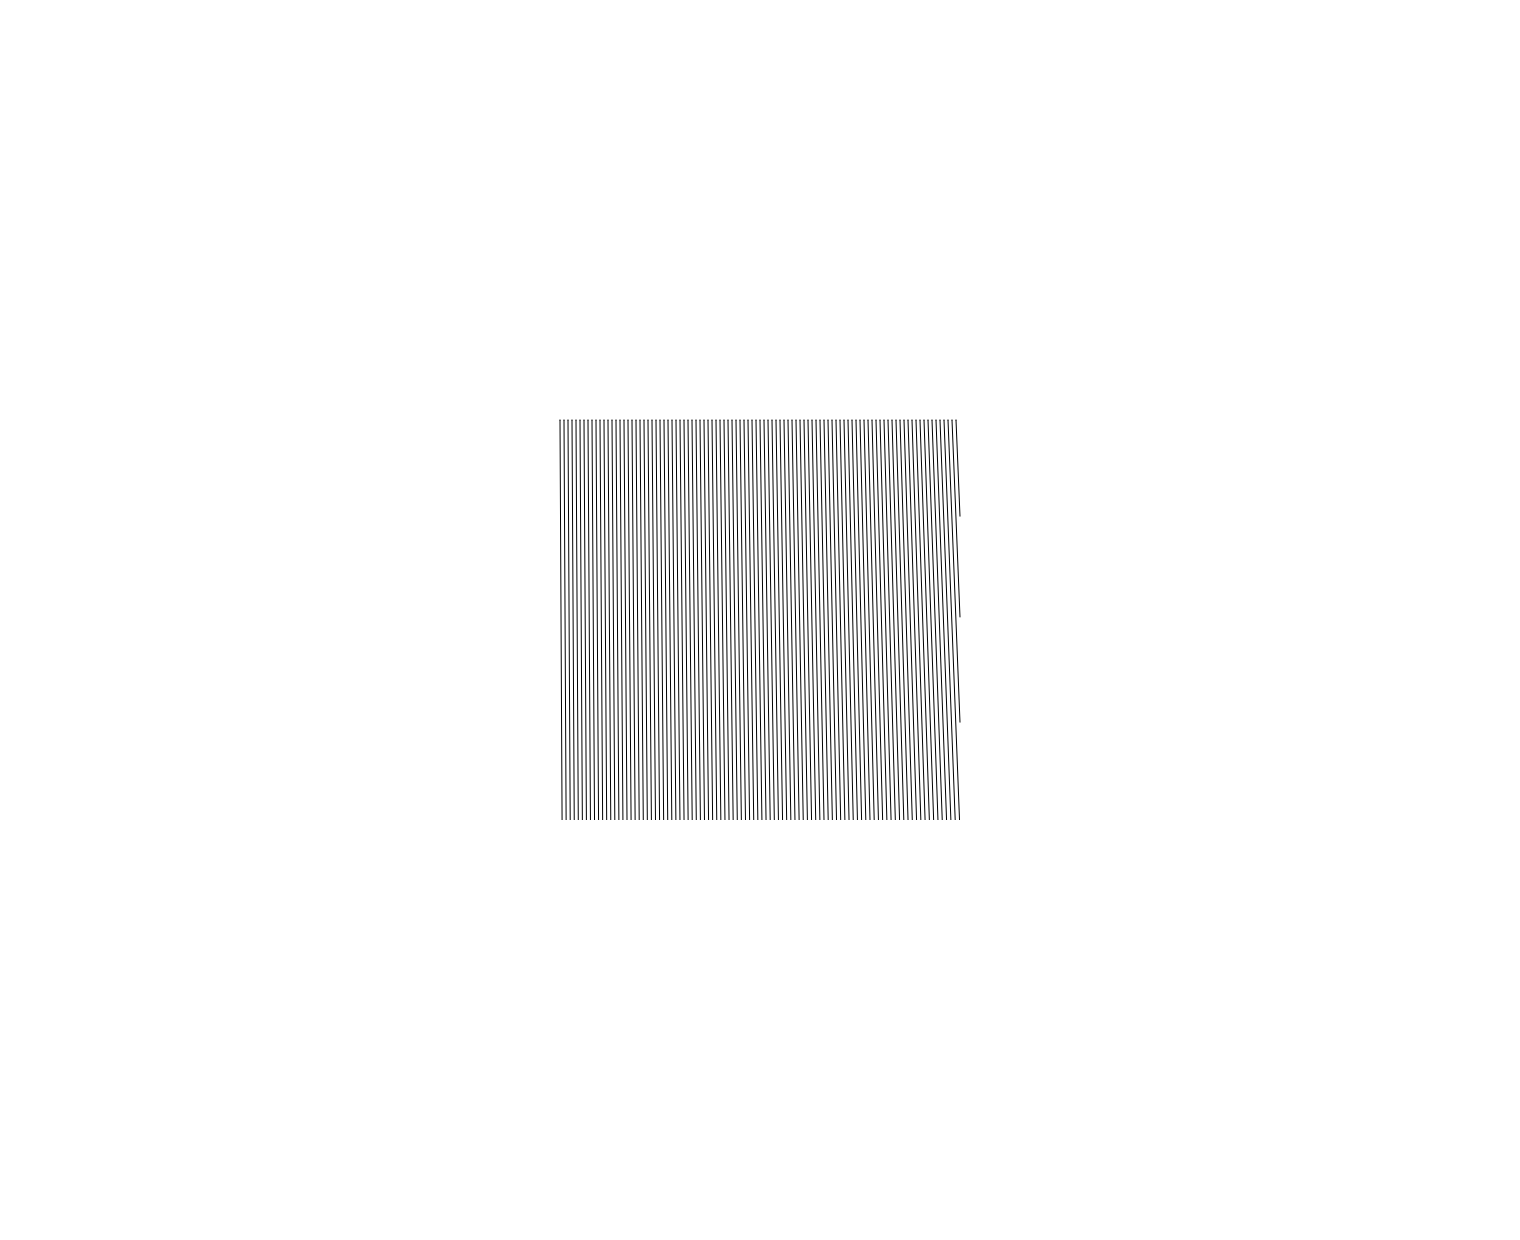
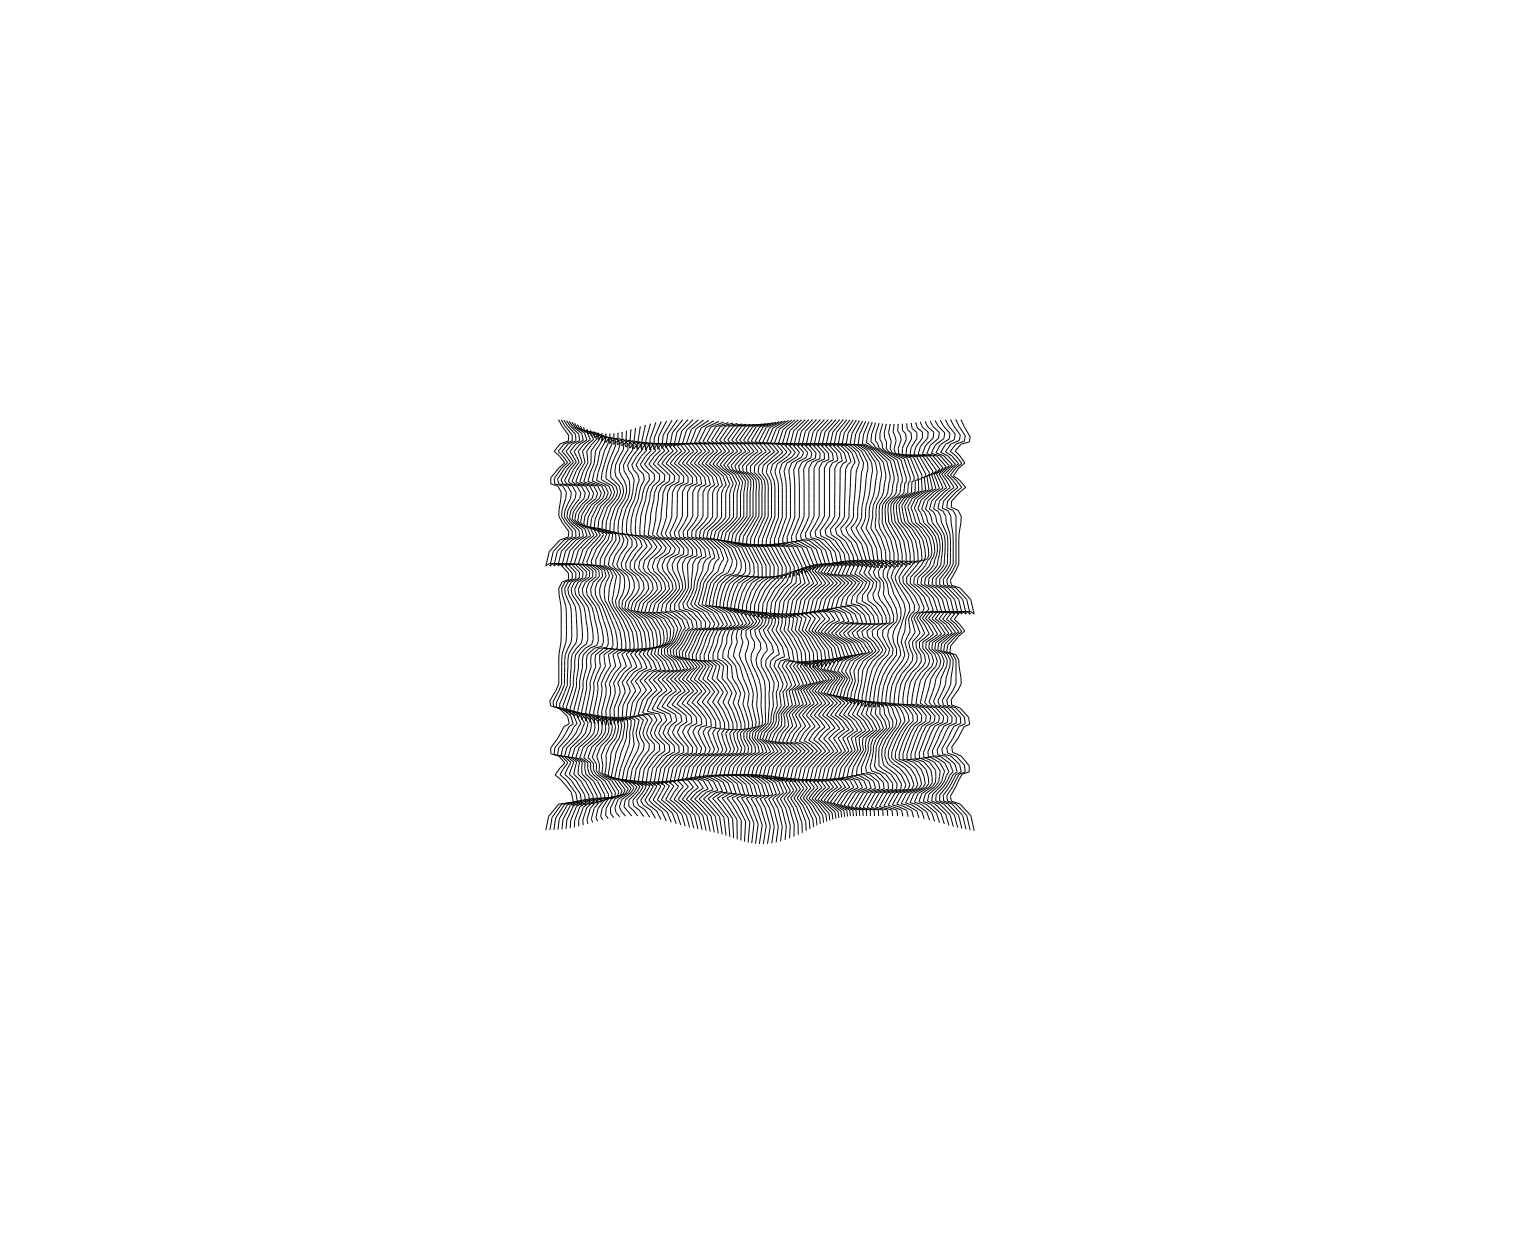
Release perlin-1

Changed region(s): [[0.3401, 0.3371, 0.6493, 0.6742]]

diff --git a/index.js b/index.js
@@ -1,18 +1,12 @@
 const playground = require('./lib/playground')
 
 playground({
-  title: 'crop-tex-8',
+  title: 'perlin-1',
   server: 'xy-server.local',
-  optimize: false,
+  optimize: true,
   useTurtle: false
 }, ({ plotter, job, turtle }) => {
-  const { normalize, radians } = require('missing-math')
-  const clip = require('lineclip')
-
-  const slope = (from, deg, len) => [
-    from[0] + Math.cos(radians(deg)) * len,
-    from[1] + Math.sin(radians(deg)) * len
-  ]
+  const { noise, radians } = require('missing-math')
 
   const aabb = [
     plotter.width / 2 - 50,
@@ -21,10 +15,30 @@ playground({
     plotter.height / 2 + 50
   ]
 
-  for (let i = -100; i < 100; i++) {
-    const a = [aabb[0] + i, aabb[1]]
-    const b = slope(a, 90 - Math.tan(normalize(i, -100, 100)) ** 2, 200)
-    const lines = clip([[a[0], a[1]], [b[0], b[1]]], aabb)
-    lines.forEach(line => job.line(...line[0], ...line[1]))
+  const slope = (from, deg, len) => [
+    from[0] + Math.cos(radians(deg)) * len,
+    from[1] + Math.sin(radians(deg)) * len
+  ]
+
+  const freq = [0.03, 0.25]
+  const amp = 10
+  const steps = [1, 1.5]
+
+  let xoff = 0
+  let yoff = 0
+
+  for (let x = aabb[0]; x <= aabb[2]; x += steps[0]) {
+    xoff += freq[0]
+    yoff = 0
+    for (let y = aabb[1]; y <= aabb[3]; y += steps[1]) {
+      const n = noise(xoff, yoff)
+      yoff += freq[1]
+
+      const point = slope([x, y], n * 90, n * amp)
+      job.move(...point)
+      job.pen_down()
+    }
+    // NOTE: this may also be cool without lifting the pen
+    job.pen_up()
   }
 })
